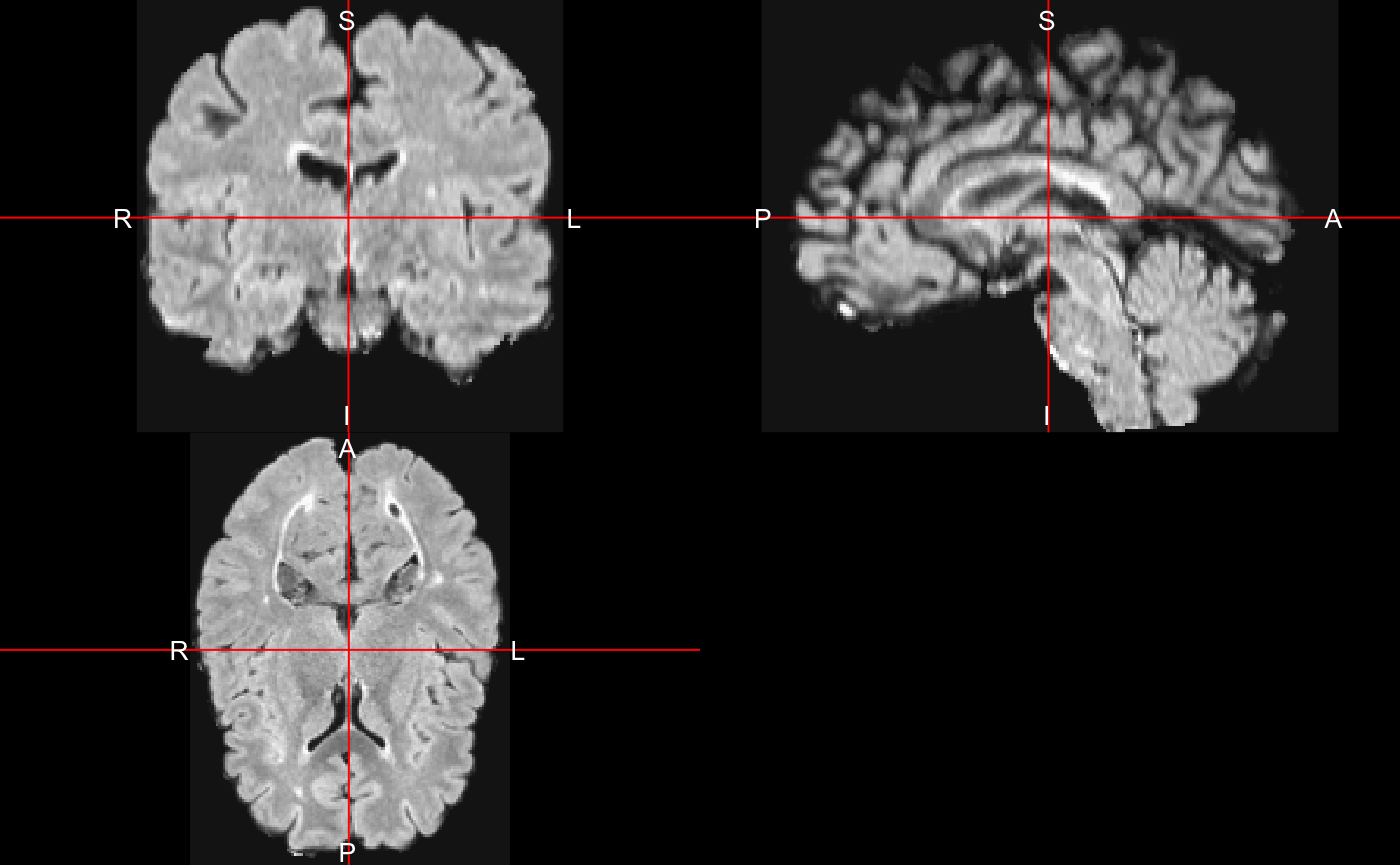
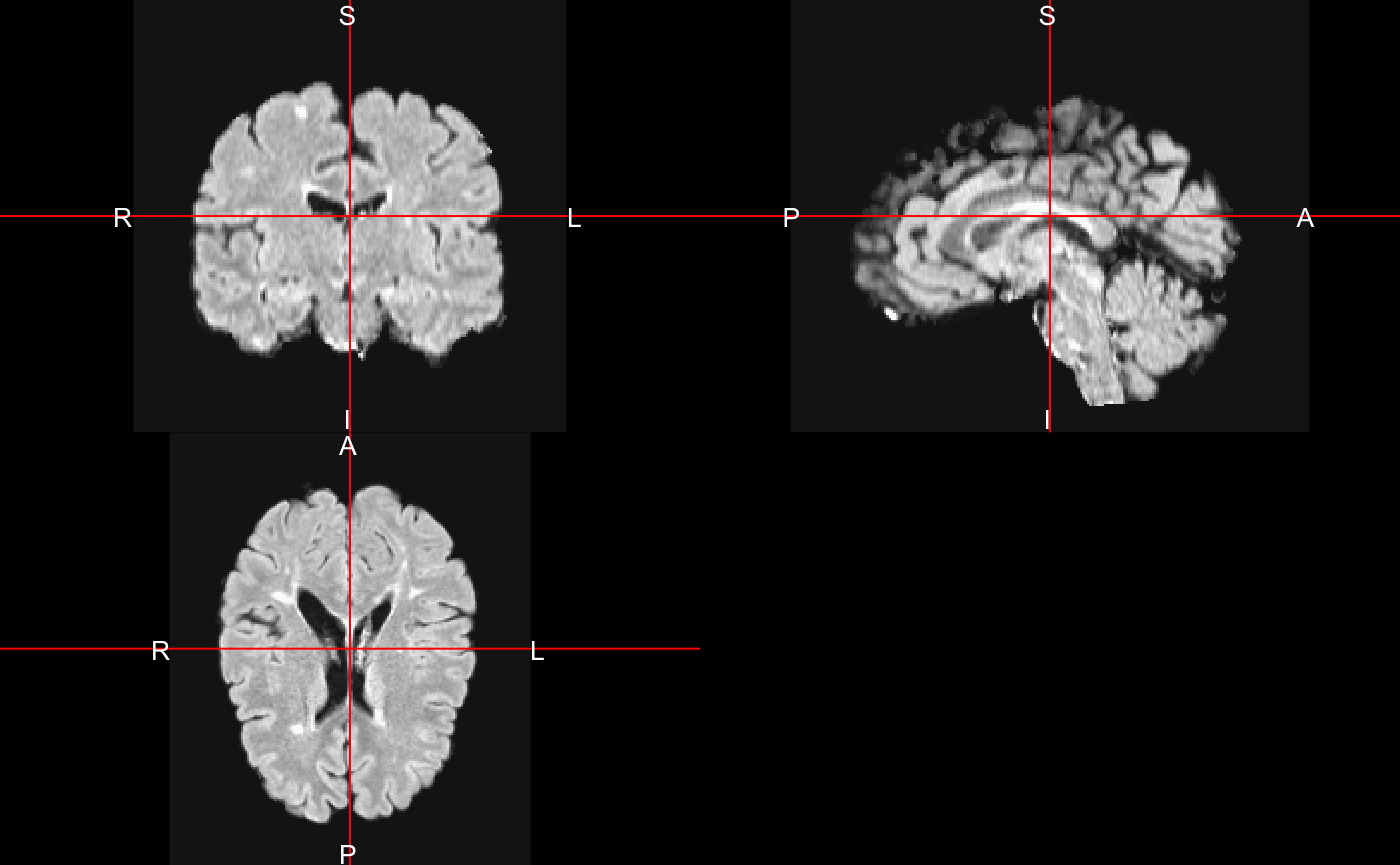
fixing the prediction - no downloading

Changed region(s): [[0.0, 0.0, 1.0, 0.4994], [0.0, 0.4682, 0.4914, 0.9988]]

diff --git a/docs/articles/predicting_lesions.html b/docs/articles/predicting_lesions.html
@@ -100,7 +100,7 @@
 <div id="installing-flexconn" class="section level2">
 <h2 class="hasAnchor">
 <a href="#installing-flexconn" class="anchor"></a>Installing FLEXCONN</h2>
-<p>FLEXCONN stands for Fast Lesion Extraction using Convolutional Neural Networks, which the main goal is to segment lesions from magnetic resonance images (MRIs) from patients with multiple sclerosis (MS). The methods are described here: <a href="https://arxiv.org/abs/1803.09172" class="uri">https://arxiv.org/abs/1803.09172</a>. Patients with MS commonly have 2 MRI sequences done, T1-weighted images and fluid attenuated inversion recovery (FLAIR) FLEXCONN requires a number of Python modules to run. You can install them either system wide (not shown) or using <code>reticulate</code>. The <code>reticulate</code> way is wrapped in <code>install_flexconn</code>:</p>
+<p>FLEXCONN stands for Fast Lesion Extraction using Convolutional Neural Networks, which the main goal is to segment lesions from magnetic resonance images (MRIs) from patients with multiple sclerosis (MS). The methods are described here: <a href="https://arxiv.org/abs/1803.09172" class="uri">https://arxiv.org/abs/1803.09172</a>. Patients with MS commonly have 2 MRI sequences done, T1-weighted images and fluid attenuated inversion recovery (FLAIR). FLEXCONN requires a number of Python modules to run. You can install them either system wide (not shown) or using <code>reticulate</code>. The <code>reticulate</code> way is wrapped in <code>install_flexconn</code>:</p>
 <div class="sourceCode" id="cb2"><pre class="sourceCode r"><code class="sourceCode r"><a class="sourceLine" id="cb2-1" title="1">flexconn<span class="op">::</span><span class="kw"><a href="https://www.rdocumentation.org/packages/flexconn/topics/install_flexconn">install_flexconn</a></span>()</a></code></pre></div>
 </div>
 <div id="downloading-a-model" class="section level2">
@@ -170,47 +170,62 @@
 <div id="downloading-data" class="section level2">
 <h2 class="hasAnchor">
 <a href="#downloading-data" class="anchor"></a>Downloading Data</h2>
-<p>Again, we need a T1-weighted and FLAIR image to do prediction. We download some example data here</p>
-<div class="sourceCode" id="cb5"><pre class="sourceCode r"><code class="sourceCode r"><a class="sourceLine" id="cb5-1" title="1">t1_file =<span class="st"> </span><span class="kw"><a href="https://www.rdocumentation.org/packages/base/topics/tempfile">tempfile</a></span>(<span class="dt">fileext =</span> <span class="st">".nii.gz"</span>)</a>
-<a class="sourceLine" id="cb5-2" title="2"><span class="kw"><a href="https://www.rdocumentation.org/packages/utils/topics/download.file">download.file</a></span>(<span class="kw"><a href="https://www.rdocumentation.org/packages/base/topics/paste">paste0</a></span>(base_url, <span class="st">"T1.nii.gz"</span>), </a>
-<a class="sourceLine" id="cb5-3" title="3">              <span class="dt">destfile =</span> t1_file)</a>
-<a class="sourceLine" id="cb5-4" title="4">t1 =<span class="st"> </span><span class="kw"><a href="https://www.rdocumentation.org/packages/neurobase/topics/readNIfTI2">readnii</a></span>(t1_file)</a>
-<a class="sourceLine" id="cb5-5" title="5"><span class="kw"><a href="https://www.rdocumentation.org/packages/neurobase/topics/ortho2">ortho2</a></span>(<span class="kw"><a href="https://www.rdocumentation.org/packages/neurobase/topics/robust_window">robust_window</a></span>(t1))</a></code></pre></div>
+<p>Again, we need a T1-weighted and FLAIR image to do prediction. We use some example data here from the package and plot each one. The <code>gt</code> object is the ground truth, manual segmentation:</p>
+<div class="sourceCode" id="cb5"><pre class="sourceCode r"><code class="sourceCode r"><a class="sourceLine" id="cb5-1" title="1">t1_file =<span class="st"> </span><span class="kw"><a href="https://www.rdocumentation.org/packages/base/topics/system.file">system.file</a></span>(<span class="st">"extdata"</span>, <span class="st">"MPRAGE.nii.gz"</span>, <span class="dt">package =</span> <span class="st">"flexconn"</span>)</a>
+<a class="sourceLine" id="cb5-2" title="2">t1 =<span class="st"> </span><span class="kw"><a href="https://www.rdocumentation.org/packages/neurobase/topics/readNIfTI2">readnii</a></span>(t1_file)</a>
+<a class="sourceLine" id="cb5-3" title="3"><span class="kw"><a href="https://www.rdocumentation.org/packages/neurobase/topics/ortho2">ortho2</a></span>(<span class="kw"><a href="https://www.rdocumentation.org/packages/neurobase/topics/robust_window">robust_window</a></span>(t1))</a></code></pre></div>
 <p><img src="predicting_lesions_files/figure-html/dl_data-1.png" width="700"></p>
 <div class="sourceCode" id="cb6"><pre class="sourceCode r"><code class="sourceCode r"><a class="sourceLine" id="cb6-1" title="1"></a>
-<a class="sourceLine" id="cb6-2" title="2">flair_file =<span class="st"> </span><span class="kw"><a href="https://www.rdocumentation.org/packages/base/topics/tempfile">tempfile</a></span>(<span class="dt">fileext =</span> <span class="st">".nii.gz"</span>)</a>
-<a class="sourceLine" id="cb6-3" title="3"><span class="kw"><a href="https://www.rdocumentation.org/packages/utils/topics/download.file">download.file</a></span>(<span class="kw"><a href="https://www.rdocumentation.org/packages/base/topics/paste">paste0</a></span>(base_url, <span class="st">"FLAIR.nii.gz"</span>), </a>
-<a class="sourceLine" id="cb6-4" title="4">              <span class="dt">destfile =</span> flair_file)</a>
-<a class="sourceLine" id="cb6-5" title="5">flair =<span class="st"> </span><span class="kw"><a href="https://www.rdocumentation.org/packages/neurobase/topics/readNIfTI2">readnii</a></span>(flair_file)</a>
-<a class="sourceLine" id="cb6-6" title="6"><span class="kw"><a href="https://www.rdocumentation.org/packages/neurobase/topics/ortho2">ortho2</a></span>(<span class="kw"><a href="https://www.rdocumentation.org/packages/neurobase/topics/robust_window">robust_window</a></span>(flair))</a></code></pre></div>
+<a class="sourceLine" id="cb6-2" title="2">flair_file =<span class="st"> </span><span class="kw"><a href="https://www.rdocumentation.org/packages/base/topics/system.file">system.file</a></span>(<span class="st">"extdata"</span>, <span class="st">"FLAIR.nii.gz"</span>, <span class="dt">package =</span> <span class="st">"flexconn"</span>)</a>
+<a class="sourceLine" id="cb6-3" title="3">flair =<span class="st"> </span><span class="kw"><a href="https://www.rdocumentation.org/packages/neurobase/topics/readNIfTI2">readnii</a></span>(flair_file)</a>
+<a class="sourceLine" id="cb6-4" title="4"><span class="kw"><a href="https://www.rdocumentation.org/packages/neurobase/topics/ortho2">ortho2</a></span>(<span class="kw"><a href="https://www.rdocumentation.org/packages/neurobase/topics/robust_window">robust_window</a></span>(flair))</a></code></pre></div>
 <p><img src="predicting_lesions_files/figure-html/dl_data-2.png" width="700"></p>
+<div class="sourceCode" id="cb7"><pre class="sourceCode r"><code class="sourceCode r"><a class="sourceLine" id="cb7-1" title="1"></a>
+<a class="sourceLine" id="cb7-2" title="2">gt_file =<span class="st"> </span><span class="kw"><a href="https://www.rdocumentation.org/packages/base/topics/system.file">system.file</a></span>(<span class="st">"extdata"</span>, <span class="st">"MPRAGE_manual.nii.gz"</span>, <span class="dt">package =</span> <span class="st">"flexconn"</span>)</a>
+<a class="sourceLine" id="cb7-3" title="3">gt =<span class="st"> </span><span class="kw"><a href="https://www.rdocumentation.org/packages/neurobase/topics/readNIfTI2">readnii</a></span>(gt_file)</a>
+<a class="sourceLine" id="cb7-4" title="4"><span class="kw"><a href="https://www.rdocumentation.org/packages/neurobase/topics/ortho2">ortho2</a></span>(<span class="kw"><a href="https://www.rdocumentation.org/packages/neurobase/topics/robust_window">robust_window</a></span>(flair), gt, <span class="dt">xyz =</span> <span class="kw"><a href="https://www.rdocumentation.org/packages/neurobase/topics/xyz">xyz</a></span>(gt))</a></code></pre></div>
+<p><img src="predicting_lesions_files/figure-html/dl_data-3.png" width="700"></p>
 </div>
 <div id="predicting-lesions" class="section level2">
 <h2 class="hasAnchor">
 <a href="#predicting-lesions" class="anchor"></a>Predicting Lesions</h2>
 <p>Here we will predict using the pre-trained model and we</p>
-<div class="sourceCode" id="cb7"><pre class="sourceCode r"><code class="sourceCode r"><a class="sourceLine" id="cb7-1" title="1">res =<span class="st"> </span><span class="kw"><a href="../reference/flexconn_predict.html">flexconn_predict</a></span>(model,</a>
-<a class="sourceLine" id="cb7-2" title="2">                       <span class="dt">t1 =</span> t1_file,</a>
-<a class="sourceLine" id="cb7-3" title="3">                       <span class="dt">flair =</span> flair_file)</a>
-<a class="sourceLine" id="cb7-4" title="4"><span class="co">#&gt; Normalizing Images</span></a>
-<a class="sourceLine" id="cb7-5" title="5"><span class="co">#&gt; 99th quantile is 1136581.36, bandwidth =14207.267, gridsize =80</span></a>
-<a class="sourceLine" id="cb7-6" title="6"><span class="co">#&gt; 4 peaks found.</span></a>
-<a class="sourceLine" id="cb7-7" title="7"><span class="co">#&gt; Peak found at 1044511.80550394 for T1</span></a>
-<a class="sourceLine" id="cb7-8" title="8"><span class="co">#&gt; 99th quantile is 34706, bandwidth =433.825, gridsize =80</span></a>
-<a class="sourceLine" id="cb7-9" title="9"><span class="co">#&gt; 5 peaks found.</span></a>
-<a class="sourceLine" id="cb7-10" title="10"><span class="co">#&gt; Peak found at 28277.2167322835 for FL</span></a>
-<a class="sourceLine" id="cb7-11" title="11"><span class="co">#&gt; Predicting from model</span></a>
-<a class="sourceLine" id="cb7-12" title="12"><span class="co">#&gt; ===========================================================================</span></a></code></pre></div>
+<div class="sourceCode" id="cb8"><pre class="sourceCode r"><code class="sourceCode r"><a class="sourceLine" id="cb8-1" title="1">res =<span class="st"> </span><span class="kw"><a href="../reference/flexconn_predict.html">flexconn_predict</a></span>(model,</a>
+<a class="sourceLine" id="cb8-2" title="2">                       <span class="dt">t1 =</span> t1_file,</a>
+<a class="sourceLine" id="cb8-3" title="3">                       <span class="dt">flair =</span> flair_file)</a>
+<a class="sourceLine" id="cb8-4" title="4"><span class="co">#&gt; Normalizing Images</span></a>
+<a class="sourceLine" id="cb8-5" title="5"><span class="co">#&gt; 99th quantile is 1136581.056, bandwidth =14207.263, gridsize =80</span></a>
+<a class="sourceLine" id="cb8-6" title="6"><span class="co">#&gt; 4 peaks found.</span></a>
+<a class="sourceLine" id="cb8-7" title="7"><span class="co">#&gt; Peak found at 1044512.47383877 for T1</span></a>
+<a class="sourceLine" id="cb8-8" title="8"><span class="co">#&gt; 99th quantile is 34706.499, bandwidth =433.831, gridsize =80</span></a>
+<a class="sourceLine" id="cb8-9" title="9"><span class="co">#&gt; 5 peaks found.</span></a>
+<a class="sourceLine" id="cb8-10" title="10"><span class="co">#&gt; Peak found at 28277.7755924928 for FL</span></a>
+<a class="sourceLine" id="cb8-11" title="11"><span class="co">#&gt; Predicting from model</span></a>
+<a class="sourceLine" id="cb8-12" title="12"><span class="co">#&gt; ===========================================================================</span></a></code></pre></div>
 <p>Here we overlay the probabilities on the FLAIR image:</p>
-<div class="sourceCode" id="cb8"><pre class="sourceCode r"><code class="sourceCode r"><a class="sourceLine" id="cb8-1" title="1">col.y =<span class="st"> </span>oro.nifti<span class="op">::</span><span class="kw">hotmetal</span>()</a>
-<a class="sourceLine" id="cb8-2" title="2">col.y =<span class="st"> </span><span class="kw"><a href="https://www.rdocumentation.org/packages/grDevices/topics/col2rgb">col2rgb</a></span>(col.y, <span class="dt">alpha =</span> <span class="fl">0.5</span>)</a>
-<a class="sourceLine" id="cb8-3" title="3">col.y =<span class="st"> </span><span class="kw"><a href="https://www.rdocumentation.org/packages/grDevices/topics/rgb">rgb</a></span>(col.y[<span class="dv">1</span>,], col.y[<span class="dv">2</span>,], col.y[<span class="dv">3</span>,], col.y[<span class="dv">4</span>,], <span class="dt">maxColorValue =</span> <span class="dv">255</span>)</a>
-<a class="sourceLine" id="cb8-4" title="4"><span class="kw"><a href="https://www.rdocumentation.org/packages/neurobase/topics/ortho2">ortho2</a></span>(<span class="kw"><a href="https://www.rdocumentation.org/packages/neurobase/topics/robust_window">robust_window</a></span>(flair), res, <span class="dt">col.y =</span> col.y)</a></code></pre></div>
+<div class="sourceCode" id="cb9"><pre class="sourceCode r"><code class="sourceCode r"><a class="sourceLine" id="cb9-1" title="1">col.y =<span class="st">  </span><span class="kw"><a href="https://www.rdocumentation.org/packages/base/topics/c">c</a></span>(<span class="st">"#010000"</span>, <span class="st">"#0C0000"</span>, <span class="st">"#170000"</span>, <span class="st">"#210000"</span>, <span class="st">"#2C0000"</span>,</a>
+<a class="sourceLine" id="cb9-2" title="2">            <span class="st">"#360000"</span>, <span class="st">"#410000"</span>, <span class="st">"#4C0000"</span>, <span class="st">"#560000"</span>, <span class="st">"#610000"</span>,</a>
+<a class="sourceLine" id="cb9-3" title="3">            <span class="st">"#6C0000"</span>, <span class="st">"#760000"</span>, <span class="st">"#810000"</span>, <span class="st">"#8B0000"</span>, <span class="st">"#960000"</span>,</a>
+<a class="sourceLine" id="cb9-4" title="4">            <span class="st">"#A10000"</span>, <span class="st">"#AB0000"</span>, <span class="st">"#B60000"</span>, <span class="st">"#C10000"</span>, <span class="st">"#CB0000"</span>,</a>
+<a class="sourceLine" id="cb9-5" title="5">            <span class="st">"#D60000"</span>, <span class="st">"#E00000"</span>, <span class="st">"#EB0000"</span>, <span class="st">"#F60000"</span>, <span class="st">"#FF0100"</span>,</a>
+<a class="sourceLine" id="cb9-6" title="6">            <span class="st">"#FF0C00"</span>, <span class="st">"#FF1700"</span>, <span class="st">"#FF2100"</span>, <span class="st">"#FF2C00"</span>, <span class="st">"#FF3600"</span>,</a>
+<a class="sourceLine" id="cb9-7" title="7">            <span class="st">"#FF4100"</span>, <span class="st">"#FF4C00"</span>, <span class="st">"#FF5600"</span>, <span class="st">"#FF6100"</span>, <span class="st">"#FF6C00"</span>,</a>
+<a class="sourceLine" id="cb9-8" title="8">            <span class="st">"#FF7600"</span>, <span class="st">"#FF8100"</span>, <span class="st">"#FF8B00"</span>, <span class="st">"#FF9600"</span>, <span class="st">"#FFA100"</span>,</a>
+<a class="sourceLine" id="cb9-9" title="9">            <span class="st">"#FFAB00"</span>, <span class="st">"#FFB600"</span>, <span class="st">"#FFC100"</span>, <span class="st">"#FFCB00"</span>, <span class="st">"#FFD600"</span>,</a>
+<a class="sourceLine" id="cb9-10" title="10">            <span class="st">"#FFE000"</span>, <span class="st">"#FFEB00"</span>, <span class="st">"#FFF600"</span>, <span class="st">"#FFFF02"</span>, <span class="st">"#FFFF12"</span>,</a>
+<a class="sourceLine" id="cb9-11" title="11">            <span class="st">"#FFFF22"</span>, <span class="st">"#FFFF32"</span>, <span class="st">"#FFFF42"</span>, <span class="st">"#FFFF52"</span>, <span class="st">"#FFFF62"</span>,</a>
+<a class="sourceLine" id="cb9-12" title="12">            <span class="st">"#FFFF72"</span>, <span class="st">"#FFFF81"</span>, <span class="st">"#FFFF91"</span>, <span class="st">"#FFFFA1"</span>, <span class="st">"#FFFFB1"</span>,</a>
+<a class="sourceLine" id="cb9-13" title="13">            <span class="st">"#FFFFC1"</span>, <span class="st">"#FFFFD1"</span>, <span class="st">"#FFFFE1"</span>, <span class="st">"#FFFFF1"</span>)</a>
+<a class="sourceLine" id="cb9-14" title="14">col.y =<span class="st"> </span>grDevices<span class="op">::</span><span class="kw"><a href="https://www.rdocumentation.org/packages/grDevices/topics/col2rgb">col2rgb</a></span>(col.y, <span class="dt">alpha =</span> <span class="fl">0.5</span>)</a>
+<a class="sourceLine" id="cb9-15" title="15">col.y =<span class="st"> </span>grDevices<span class="op">::</span><span class="kw"><a href="https://www.rdocumentation.org/packages/grDevices/topics/rgb">rgb</a></span>(col.y[<span class="dv">1</span>,], col.y[<span class="dv">2</span>,], col.y[<span class="dv">3</span>,], col.y[<span class="dv">4</span>,], <span class="dt">maxColorValue =</span> <span class="dv">255</span>)</a>
+<a class="sourceLine" id="cb9-16" title="16"><span class="kw"><a href="https://www.rdocumentation.org/packages/neurobase/topics/ortho2">ortho2</a></span>(<span class="kw"><a href="https://www.rdocumentation.org/packages/neurobase/topics/robust_window">robust_window</a></span>(flair), res, <span class="dt">col.y =</span> col.y)</a></code></pre></div>
 <p><img src="predicting_lesions_files/figure-html/plot_result-1.png" width="700"></p>
 <p>Here we see we have a probability map of lesions. To get a binary mask, we can use the <code>remove_small_components</code>, which thresholds the image and removes voxels with fewer than 27 connected voxels:</p>
-<div class="sourceCode" id="cb9"><pre class="sourceCode r"><code class="sourceCode r"><a class="sourceLine" id="cb9-1" title="1">pred =<span class="st"> </span><span class="kw"><a href="../reference/remove_small_components.html">remove_small_components</a></span>(res)</a></code></pre></div>
-<div class="sourceCode" id="cb10"><pre class="sourceCode r"><code class="sourceCode r"><a class="sourceLine" id="cb10-1" title="1"><span class="kw"><a href="https://www.rdocumentation.org/packages/neurobase/topics/ortho2">ortho2</a></span>(<span class="kw"><a href="https://www.rdocumentation.org/packages/neurobase/topics/robust_window">robust_window</a></span>(flair), pred, <span class="dt">xyz =</span> <span class="kw"><a href="https://www.rdocumentation.org/packages/neurobase/topics/xyz">xyz</a></span>(pred), <span class="dt">col.y =</span> <span class="st">"#FF000080"</span>)</a></code></pre></div>
+<div class="sourceCode" id="cb10"><pre class="sourceCode r"><code class="sourceCode r"><a class="sourceLine" id="cb10-1" title="1">pred =<span class="st"> </span><span class="kw"><a href="../reference/remove_small_components.html">remove_small_components</a></span>(res)</a></code></pre></div>
+<div class="sourceCode" id="cb11"><pre class="sourceCode r"><code class="sourceCode r"><a class="sourceLine" id="cb11-1" title="1"><span class="kw"><a href="https://www.rdocumentation.org/packages/neurobase/topics/ortho2">ortho2</a></span>(<span class="kw"><a href="https://www.rdocumentation.org/packages/neurobase/topics/robust_window">robust_window</a></span>(flair), pred, <span class="dt">xyz =</span> <span class="kw"><a href="https://www.rdocumentation.org/packages/neurobase/topics/xyz">xyz</a></span>(pred), <span class="dt">col.y =</span> <span class="st">"#FF000080"</span>)</a></code></pre></div>
 <p><img src="predicting_lesions_files/figure-html/plot_binary-1.png" width="700"></p>
+<div class="sourceCode" id="cb12"><pre class="sourceCode r"><code class="sourceCode r"><a class="sourceLine" id="cb12-1" title="1"><span class="kw"><a href="https://www.rdocumentation.org/packages/neurobase/topics/fast_dice_tab">fast_dice</a></span>(pred, gt)</a>
+<a class="sourceLine" id="cb12-2" title="2"><span class="co">#&gt; [1] 0.2118038</span></a></code></pre></div>
 </div>
   </div>
 

diff --git a/docs/reference/remove_small_components.html b/docs/reference/remove_small_components.html
@@ -125,7 +125,7 @@
     <p>Remove connected objects with volume &lt;27 voxels</p>
     </div>
 
-    <pre class="usage"><span class='fu'>remove_small_components</span>(<span class='no'>img</span>, <span class='kw'>threshold</span> <span class='kw'>=</span> <span class='fl'>0.34</span>)</pre>
+    <pre class="usage"><span class='fu'>remove_small_components</span>(<span class='no'>img</span>, <span class='kw'>threshold</span> <span class='kw'>=</span> <span class='fl'>0.34</span>, <span class='kw'>voxel_threshold</span> <span class='kw'>=</span> <span class='fl'>27</span>)</pre>
 
     <h2 class="hasAnchor" id="arguments"><a class="anchor" href="#arguments"></a>Arguments</h2>
     <table class="ref-arguments">
@@ -138,7 +138,13 @@ object of class <code>nifti</code> or an array</p></td>
     </tr>
     <tr>
       <th>threshold</th>
-      <td><p>threshold to apply to image to create a mask</p></td>
+      <td><p>threshold to apply to image to create a mask (
+less than or equal)</p></td>
+    </tr>
+    <tr>
+      <th>voxel_threshold</th>
+      <td><p>Threshold of number of voxels to remove if smaller
+than this number (strict inequality)</p></td>
     </tr>
     </table>
 
